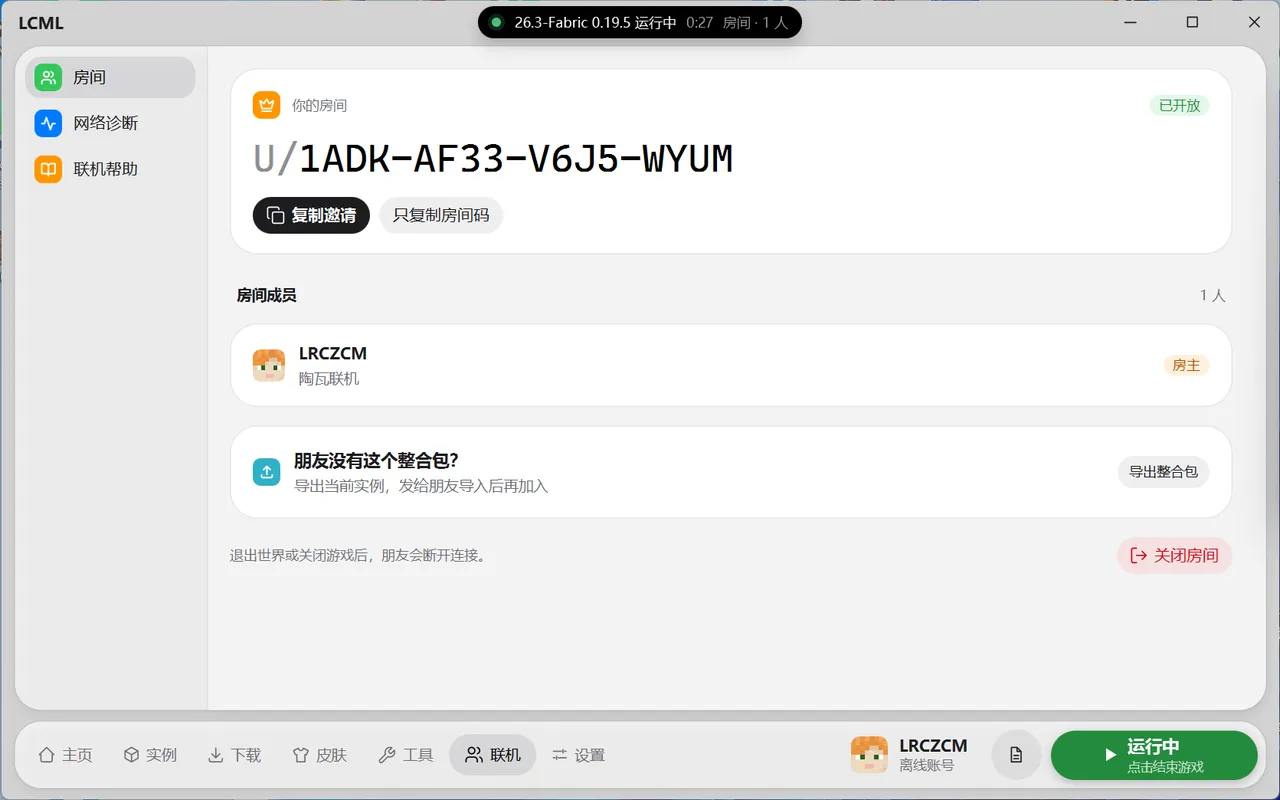
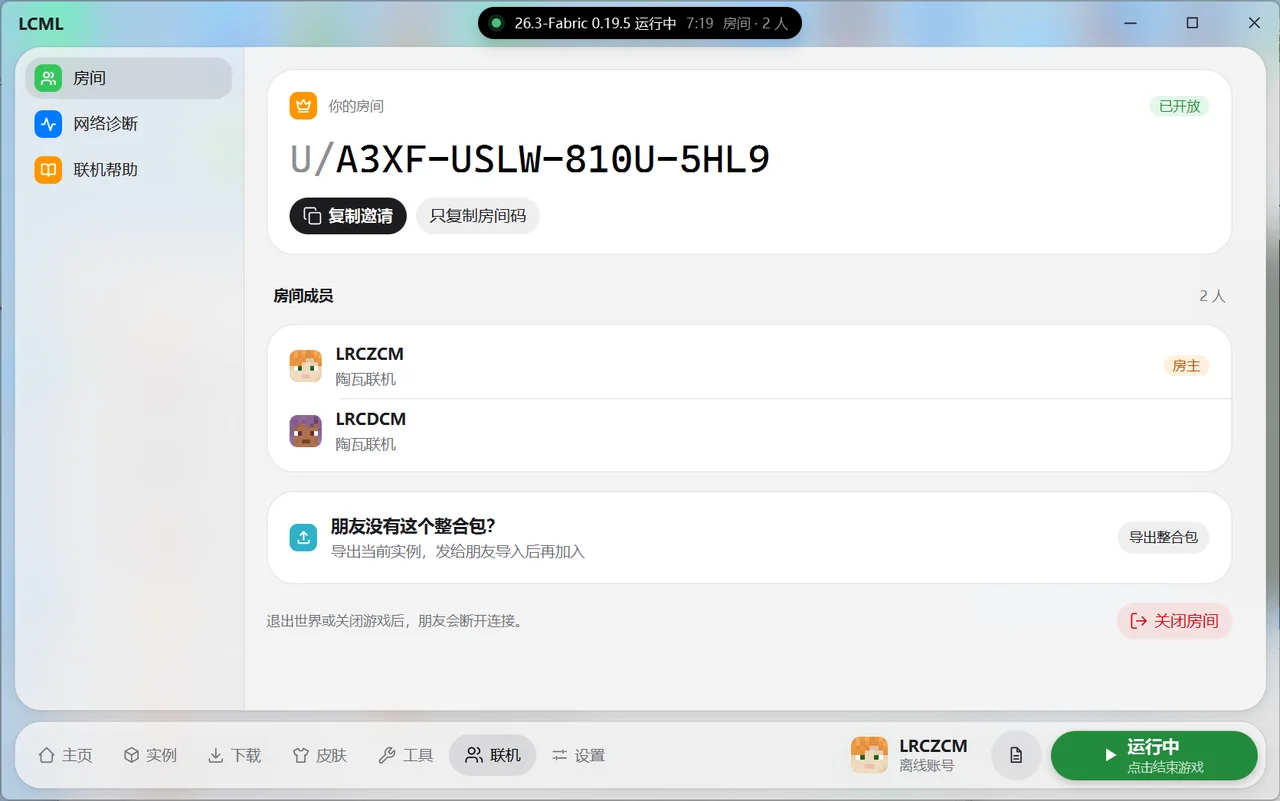
发版 26.11.13.2

diff --git a/CHANGELOG.md b/CHANGELOG.md
@@ -2,10 +2,17 @@
 
 ## 未发布
 
+## 26.11.13.2
+
+- 修复：加入联机房间后，房间成员和自己的账号没有头像
+- 修复：联机房间页“版本一致”标签与实例下拉框没有对齐
+
 ## 26.11.13.1
 
 - 增加：联机，可以开房或加入朋友的房间，与 HMCL、PCL 互通
 - 更新：用户协议补充联机的隐私说明，更新后需要重新同意
+- 修复：截图页的“按日期 / 按实例 / 不分组”切换被搜索框拉高
+- 修复：加载器列表隐藏 OptiFine 后，最后一项底部露出白边、圆角变直角
 
 ## 26.11.12.1
 

diff --git a/docs/manual/multiplayer.md b/docs/manual/multiplayer.md
@@ -35,6 +35,8 @@
 2. 点“加入房间”，等待“找到房主”“打通连接”完成。打通时会显示连接难度。
 3. 连上后，启动器会读出房主世界的版本和延迟，并自动选好同版本的实例。点“启动并进入房间”，游戏启动后直接进入房主的世界。
 
+![已加入房间](images/multiplayer-joined.webp)
+
 已在游戏里的话，房间也会出现在游戏“多人游戏”页的局域网列表里。点“退出房间”结束联机。
 
 在房间里时，灵动岛会显示房间人数和延迟，点开后可以回到联机页。
